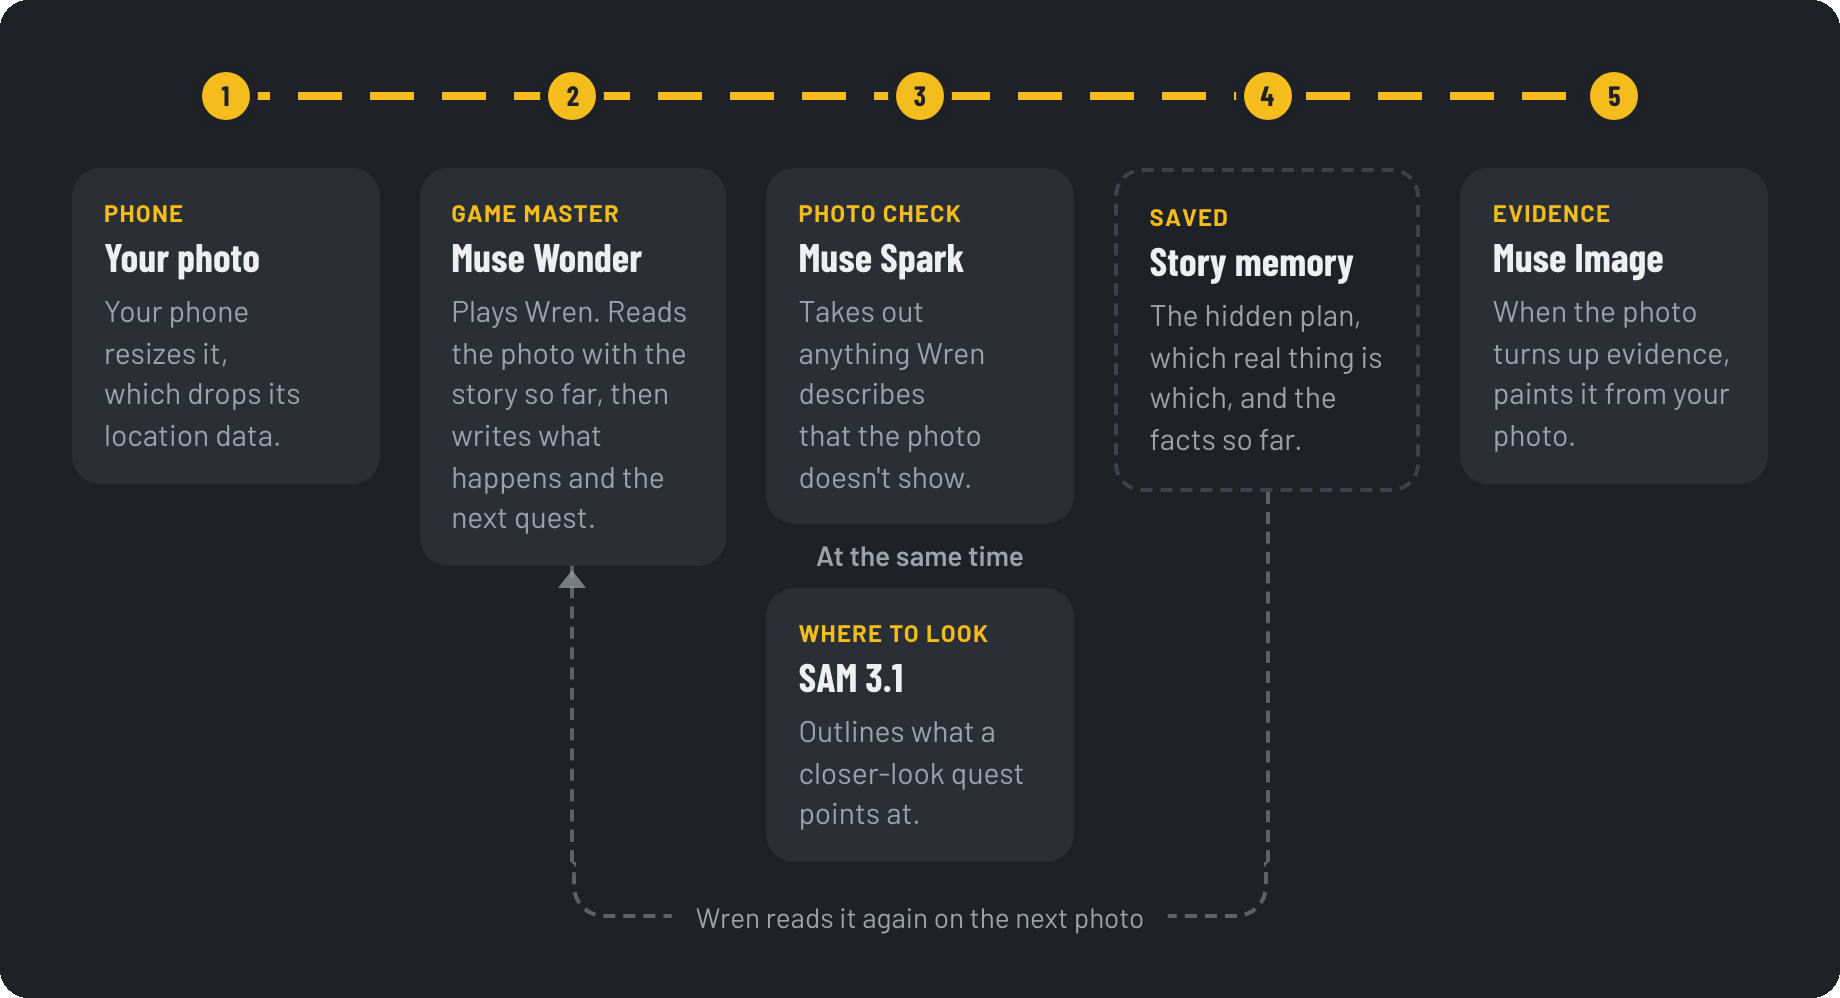
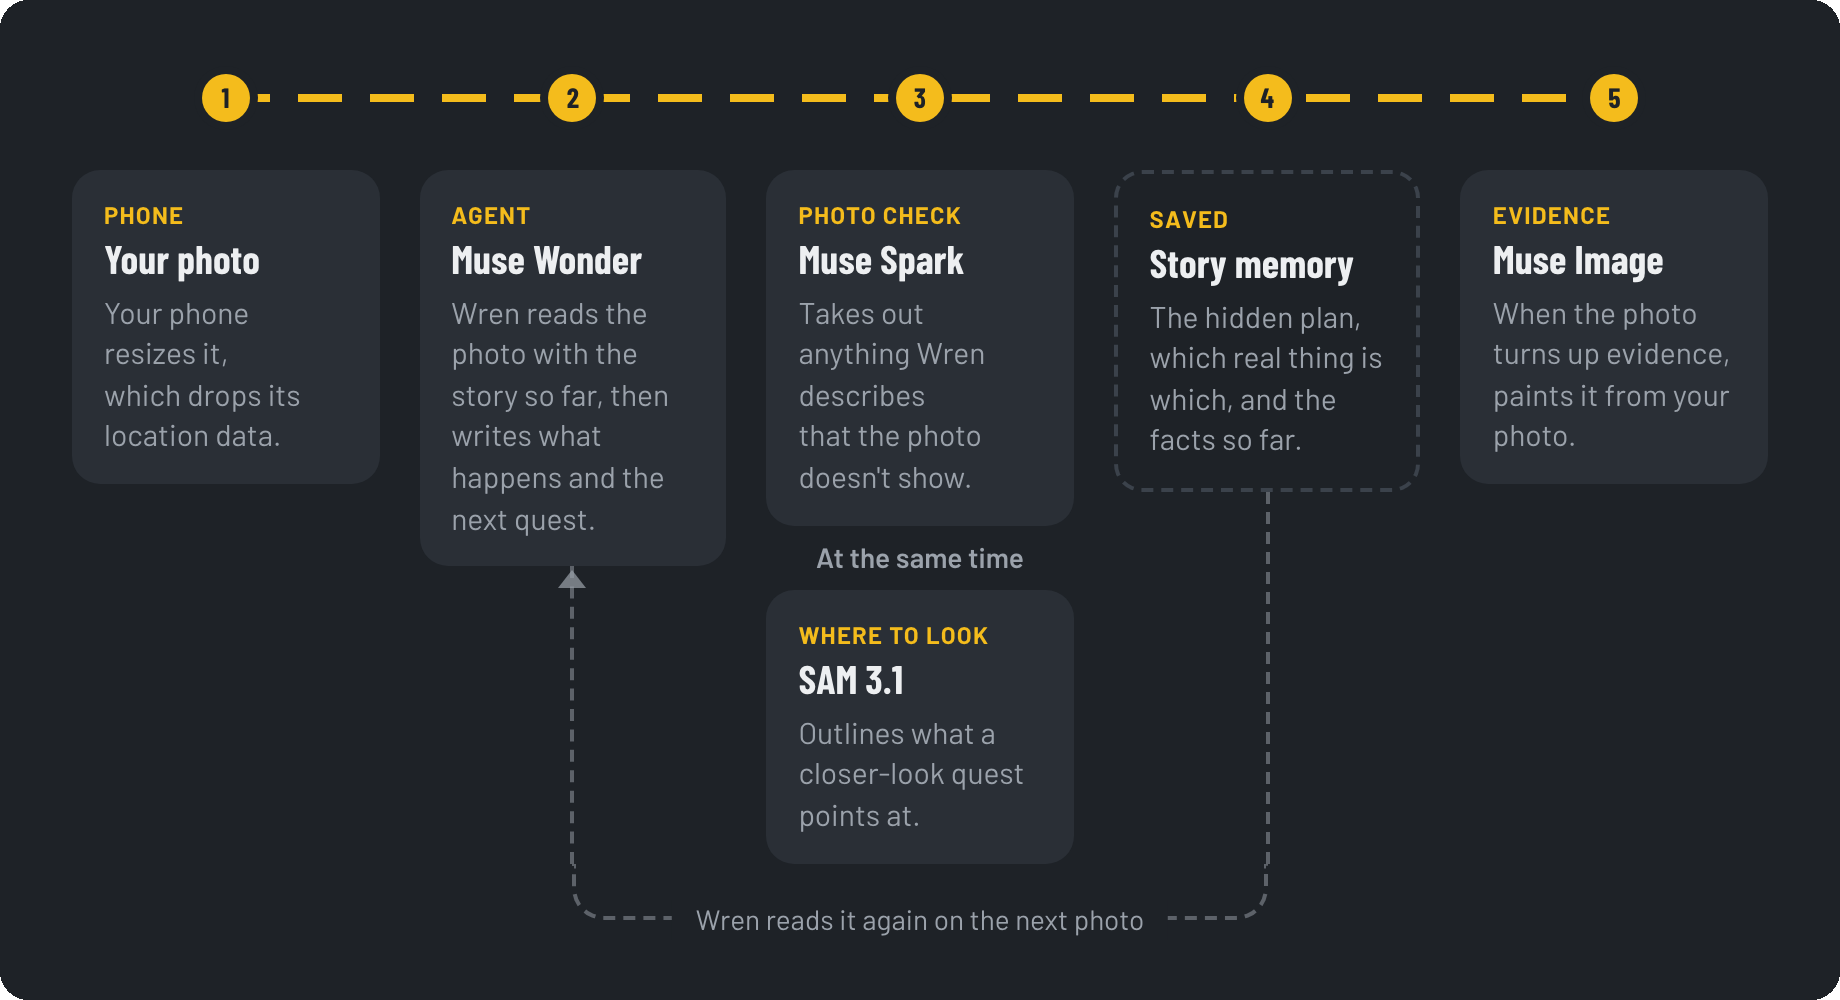
Explain the game top down, with Wren as the agent (#53)
The How it works page now starts with the game loop, then says what Wren
does as an agent, before the turn diagram and the details.

- The game loop: a photo, what Wren makes of it, a quest, and the next
photo.
- Wren, the agent: Wren plans the case, reads each photo with what it
remembers, writes what happens, sets the next quest and changes the plan
when photos stop fitting it. Muse Spark checks its lines, and SAM 3.1
and Muse Image are its tools.
- The diagram labels Muse Wonder as the agent, and `docs/turn.png` is
drawn again from it.
- Story memory says the layers let a case pick up again days later.

The README's How it works opens with the same agent paragraph. The
Privacy page drops its second lead sentence and moves "Your photos go to
Meta" to the end, above Questions.

Checked on a laptop and a phone in mock mode, with no console errors.
Typecheck, lint, 41 tests and the build pass.

diff --git a/app/how-it-works/page.tsx b/app/how-it-works/page.tsx
@@ -6,7 +6,7 @@ import { SiteFooter, SiteHeader } from "@/components/SiteNav";
 import { GITHUB_URL, linkPreview } from "@/lib/site";
 import { TurnDiagram } from "@/components/TurnDiagram";
 
-const DESCRIPTION = "How Questory uses four models from the Meta Model API to build a case from your photos.";
+const DESCRIPTION = "How Wren, an AI agent built on Meta's models, turns your photos into a case.";
 
 export const metadata: Metadata = {
   title: "How it works",
@@ -48,7 +48,7 @@ function Heading({ id, children }: { id: string; children: string }) {
   );
 }
 
-/** The models behind a turn, and how a case holds together, for anyone curious and for judges. */
+/** The game from the top down: the loop you play, the agent that runs it, then the models and memory behind a turn. */
 export default function HowItWorks() {
   return (
     <main className="mx-auto w-full max-w-6xl px-4 pt-[max(2rem,env(safe-area-inset-top))] pb-14 md:px-10 md:pt-12">
@@ -56,10 +56,42 @@ export default function HowItWorks() {
 
       <h1 className="mt-10 font-sign text-[2.5rem] leading-[1.05] font-bold md:mt-14 md:text-6xl">How it works</h1>
       <p className="mt-5 max-w-2xl font-story text-lg leading-relaxed md:text-xl">
-        Questory uses four models from the Meta Model API. Every photo you take goes through them in one turn.
+        Questory is a game you play on a walk. Wren, its game master, is an AI agent: it builds a case from your photos
+        and sends you out to find the evidence.
       </p>
 
-      <section className="mt-12 md:mt-16" aria-labelledby="turn-title">
+      <section className="mt-12 md:mt-16" aria-labelledby="loop-title">
+        <Heading id="loop-title">The game loop</Heading>
+        <p className={TEXT}>
+          Each turn starts with a photo. Wren reads it, tells you what it means for the case and gives you a quest. A
+          quest asks for a closer look at something in your photo, or sends you a block or two away to find something.
+          Your photo of it starts the next turn.
+        </p>
+        <p className={TEXT}>
+          A photo that answers a quest becomes a piece of evidence, and the evidence leads to the answer. A case has
+          multiple chapters. You can stop after any photo, and your next photo picks the story up wherever you are.
+        </p>
+      </section>
+
+      <section className="mt-14 md:mt-20" aria-labelledby="agent-title">
+        <Heading id="agent-title">Wren, the agent</Heading>
+        <p className={TEXT}>
+          Wren is built on Muse Wonder. At the start of a case, it decides the answer and plans the evidence that leads
+          to it. On every turn, it reads your photo with what it remembers of the story, decides what the photo means,
+          writes what happens and sets the next quest. When your photos stop fitting the plan, it changes the plan.
+        </p>
+        <p className={TEXT}>
+          Wren can&apos;t walk, so you do. Each quest is Wren asking you to go and look, and your photo is how it sees
+          what you found.
+        </p>
+        <p className={TEXT}>
+          Three other models work with Wren. Muse Spark checks Wren&apos;s lines against your photo and takes out
+          anything the photo doesn&apos;t show. Wren uses the other two as tools: SAM 3.1 outlines what a closer-look
+          quest points at, and Muse Image paints the evidence from your photo.
+        </p>
+      </section>
+
+      <section className="mt-14 md:mt-20" aria-labelledby="turn-title">
         <Heading id="turn-title">A turn</Heading>
         <TurnDiagram className="mt-8" />
       </section>
@@ -67,8 +99,8 @@ export default function HowItWorks() {
       <section className="mt-10 md:mt-12" aria-labelledby="case-title">
         <Heading id="case-title">The case</Heading>
         <p className={TEXT}>
-          Every case has one question and a hidden answer that Wren decides at the start. Wren plans each chapter as
-          places and objects to find, and each quest goes where the last find pointed, so the evidence forms a trail.
+          Every case has one question and a hidden answer. Wren plans each chapter as places and objects to find, and
+          each quest goes where the last find pointed, so the evidence forms a trail.
         </p>
         <p className={TEXT}>
           A photo can answer the current quest, take the story somewhere new, or be a side note that leaves the quest
@@ -80,7 +112,10 @@ export default function HowItWorks() {
 
       <section className="mt-14 md:mt-20" aria-labelledby="memory-title">
         <Heading id="memory-title">Story memory</Heading>
-        <p className={TEXT}>Wren keeps each story in three layers, saved after every turn.</p>
+        <p className={TEXT}>
+          Wren keeps each story in three layers. They&apos;re saved after every turn, so a case can pick up again days
+          later.
+        </p>
         <ul className="mt-6 grid gap-3 md:grid-cols-3 md:gap-5">
           {LAYERS.map((layer) => (
             <li key={layer.name} className="rounded-[14px] bg-kerb px-4 py-3.5">

diff --git a/components/TurnDiagram.tsx b/components/TurnDiagram.tsx
@@ -4,8 +4,8 @@ import { GAME_MASTER } from "@/lib/types";
 type Box = { kicker: string; title: string; text: string };
 
 /**
- * One turn, in order. The third stop's two models run at the same time. The memory is
- * read again by the game master on the next photo, which the loop marks.
+ * One turn, in order. The third stop's two models run at the same time. The agent reads
+ * the memory again on the next photo, which the loop marks.
  */
 const STOPS: { boxes: Box[]; memory?: boolean; loop?: boolean }[] = [
   {
@@ -15,9 +15,9 @@ const STOPS: { boxes: Box[]; memory?: boolean; loop?: boolean }[] = [
     loop: true,
     boxes: [
       {
-        kicker: "Game master",
+        kicker: "Agent",
         title: "Muse Wonder",
-        text: `Plays ${GAME_MASTER}. Reads the photo with the story so far, then writes what happens and the next quest.`,
+        text: `${GAME_MASTER} reads the photo with the story so far, then writes what happens and the next quest.`,
       },
     ],
   },
@@ -51,7 +51,7 @@ const LOOP_LINE = "border-dashed border-concrete/50";
 
 /**
  * What happens to one photo, as stops along a lane line: down the screen on a phone, and
- * across on a computer, where a dashed loop takes the memory back to the game master.
+ * across on a computer, where a dashed loop takes the memory back to the agent.
  */
 export function TurnDiagram({ className = "" }: { className?: string }) {
   return (
@@ -89,7 +89,7 @@ export function TurnDiagram({ className = "" }: { className?: string }) {
                   </div>
                 </Fragment>
               ))}
-              {/* The loop leaves the memory and comes back up into the game master. */}
+              {/* The loop leaves the memory and comes back up into the agent. */}
               {stop.loop && (
                 <div className="relative hidden min-h-4 flex-1 md:block" aria-hidden="true">
                   <div className={`mx-auto h-full w-0 border-l-2 ${LOOP_LINE}`} />

diff --git a/app/privacy/page.tsx b/app/privacy/page.tsx
@@ -34,15 +34,9 @@ export default function Privacy() {
       <div className="max-w-2xl">
         <h1 className="mt-10 font-sign text-[2.5rem] leading-[1.05] font-bold md:mt-14 md:text-6xl">Privacy</h1>
         <p className="mt-5 font-story text-lg leading-relaxed md:text-xl">
-          Questory has no accounts and never asks where you are. This is what happens to your photos and stories.
+          Questory has no accounts and never asks where you are.
         </p>
 
-        <Part title="Your photos go to Meta">
-          Wren runs on Meta&apos;s AI models through the Meta Model API. Each photo you take in the game is sent there
-          with the story so far, to write what happens, check it against the photo, outline what a quest points at and
-          paint the evidence. Meta may use what it receives to improve its products. Leave people&apos;s faces and number
-          plates out of your photos.
-        </Part>
         <Part title="No account">
           There is no sign-up. A random ID in a cookie links your stories to this browser, so if you clear your cookies,
           you can&apos;t open them here again.
@@ -64,6 +58,12 @@ export default function Privacy() {
         </Part>
         <Part title="Deleting a story">
           Deleting a story also deletes its photos and evidence pictures. Tap Edit above your stories to delete one.
+        </Part>
+        <Part title="Your photos go to Meta">
+          Wren runs on Meta&apos;s AI models through the Meta Model API. Each photo you take in the game is sent there
+          with the story so far, to write what happens, check it against the photo, outline what a quest points at and
+          paint the evidence. Meta may use what it receives to improve its products. Leave people&apos;s faces and number
+          plates out of your photos.
         </Part>
         <Part title="Questions">
           Open an issue on{" "}

diff --git a/README.md b/README.md
@@ -29,11 +29,13 @@ To play with a friend, choose "With a friend" and send them the link. You each f
 
 ## How it works
 
+Wren is an AI agent. It plans each case, reads every photo with what it remembers of the story, decides what happens next and changes its plan when your photos stop fitting it. Wren can't walk, so you do, and its quests say where to look.
+
 Questory is a Next.js 16 app that uses four models from the Meta Model API:
 
 | Model | Used for |
 | :--- | :--- |
-| Muse Wonder | Playing Wren: reading each photo and writing the story and quests |
+| Muse Wonder | Wren itself: planning the case, reading each photo and writing the story and quests |
 | Muse Spark | Checking Wren's lines against the photo |
 | SAM 3.1 | Outlining what a closer-look quest points at |
 | Muse Image | Redrawing photos that turn up evidence as evidence cards |
@@ -104,7 +106,7 @@ app/privacy/        What happens to photos and stories
 app/play/           The game
 app/api/            Route handlers for stories, turns, evidence cards, media and health
 components/         The mobile interface
-lib/gm/             The game master: state, prompts, output schemas, engine and a scripted mock
+lib/gm/             Wren, the agent: state, prompts, output schemas, engine and a scripted mock
 lib/meta/           Meta Model API clients for structured JSON, SAM 3.1 and Muse Image
 lib/store/          Storage in local files or Appwrite
 lib/client/         Browser code for photos, API calls and invite links
